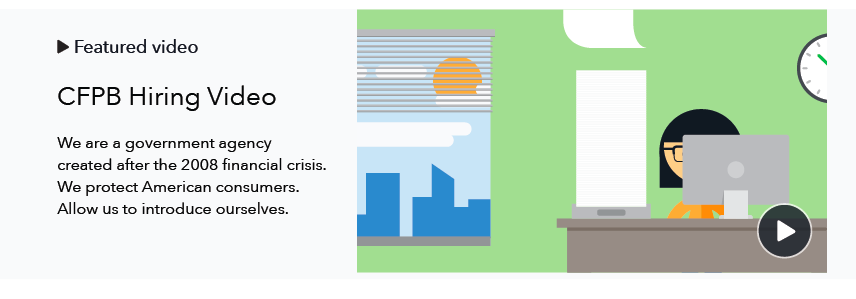
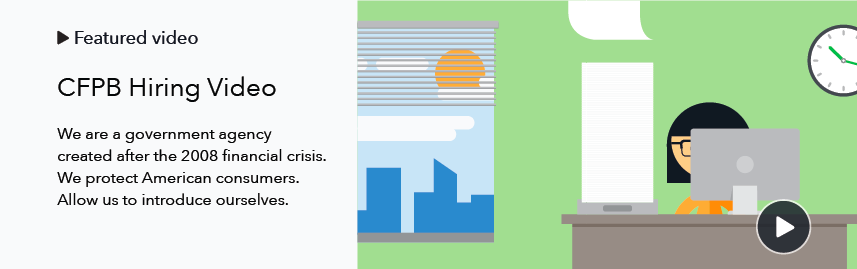
updated images

diff --git a/ui-toolkit/heroes.md b/ui-toolkit/heroes.md
@@ -1,6 +1,6 @@
 ---
 layout: page
-title: Page Heroes
+title: Heroes
 category: UI toolkit
 ---
 
@@ -55,7 +55,7 @@ Heroes can contain calls to action. Rules for button versus links apply in a cal
 <div class="content-first">
 ![Image of the Claiming Social Security site's hero graphic]({{ site.baseurl }}/static/img/hero/Retirement.png)
 
-![Image of the Owning a Home site's hero graphic]({{ site.baseurl }}/static/img/hero/OaH.png)
+![Image of the Owning a Home site's hero graphic]({{ site.baseurl }}/static/img/hero/Hero_desktop.png)
 
 </div>
 
@@ -95,6 +95,7 @@ Heroes can contain calls to action. Rules for button versus links apply in a cal
 * Top and bottom margins: 30px
 * Left and right margins: 30px
 * Module height is flexible to text height
+* Visually is vertically centered
 
 </div>
 
@@ -102,7 +103,7 @@ Heroes can contain calls to action. Rules for button versus links apply in a cal
 
 ![Image of hero with call to action at tablet size]({{ site.baseurl }}/static/img/hero/Retirement-tablet.png)
 
-![Image of hero with call to action at tablet size]({{ site.baseurl }}/static/img/hero/OaH-tablet.png)
+![Image of hero with call to action at tablet size]({{ site.baseurl }}/static/img/hero/Hero_tablet.png)
 
 </div>
 
@@ -125,7 +126,7 @@ Heroes can contain calls to action. Rules for button versus links apply in a cal
 
 <div class="content-33">
 
-![Image of hero with call to action at mobile size]({{ site.baseurl }}/static/img/hero/OaH-mobile.png)
+![Image of hero with call to action at mobile size]({{ site.baseurl }}/static/img/hero/Hero_mobile.png)
 
 </div>
 
